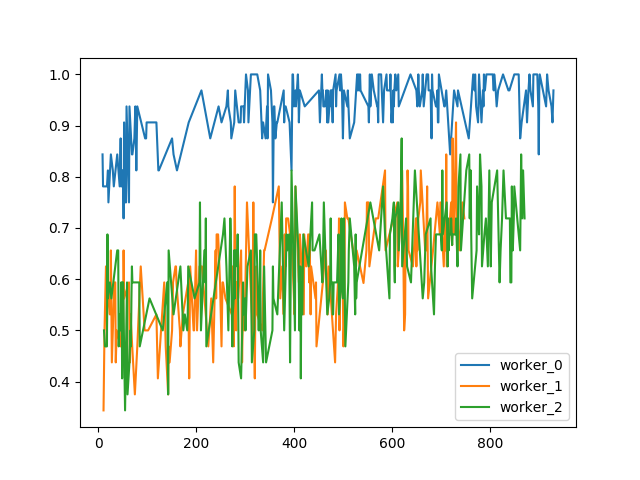
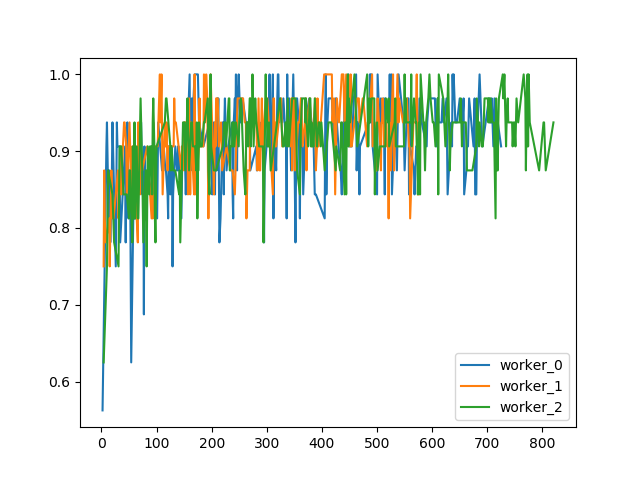
fixed sendnodeinfo

diff --git a/Milestone2/docker/server.py b/Milestone2/docker/server.py
@@ -172,9 +172,9 @@ class SVMServicer(SVM_pb2_grpc.SVMServicer):
         nb_nodes = int(os.environ['NUMBER_REPLICAS'])
         self.worker_nb = int(os.environ['MY_POD_NAME'].split('-')[1])
         if(int(os.environ['ASNYCH'])):
-            data_len = (len(self.data) / nb_nodes)
-            self.data = self.data[int(
-                data_len * self.worker_nb):int(data_len * self.worker_nb + data_len)]
+            #data_len = (len(self.data) / nb_nodes)
+            #self.data = self.data[int(
+            #    data_len * self.worker_nb):int(data_len * self.worker_nb + data_len)]
             all_nodes = list(range(nb_nodes - 1))
             del all_nodes[self.worker_nb]
             for i in all_nodes:
@@ -193,6 +193,7 @@ class SVMServicer(SVM_pb2_grpc.SVMServicer):
             grpc.insecure_channel(self.coordinator_address))
 
         if self.is_worker:
+            print("data size:{}".format(len(self.data)))
             print('[INFO] WORKER {} received all addresses'.format(self.worker_nb))
         return SVM_pb2.Null()
 
